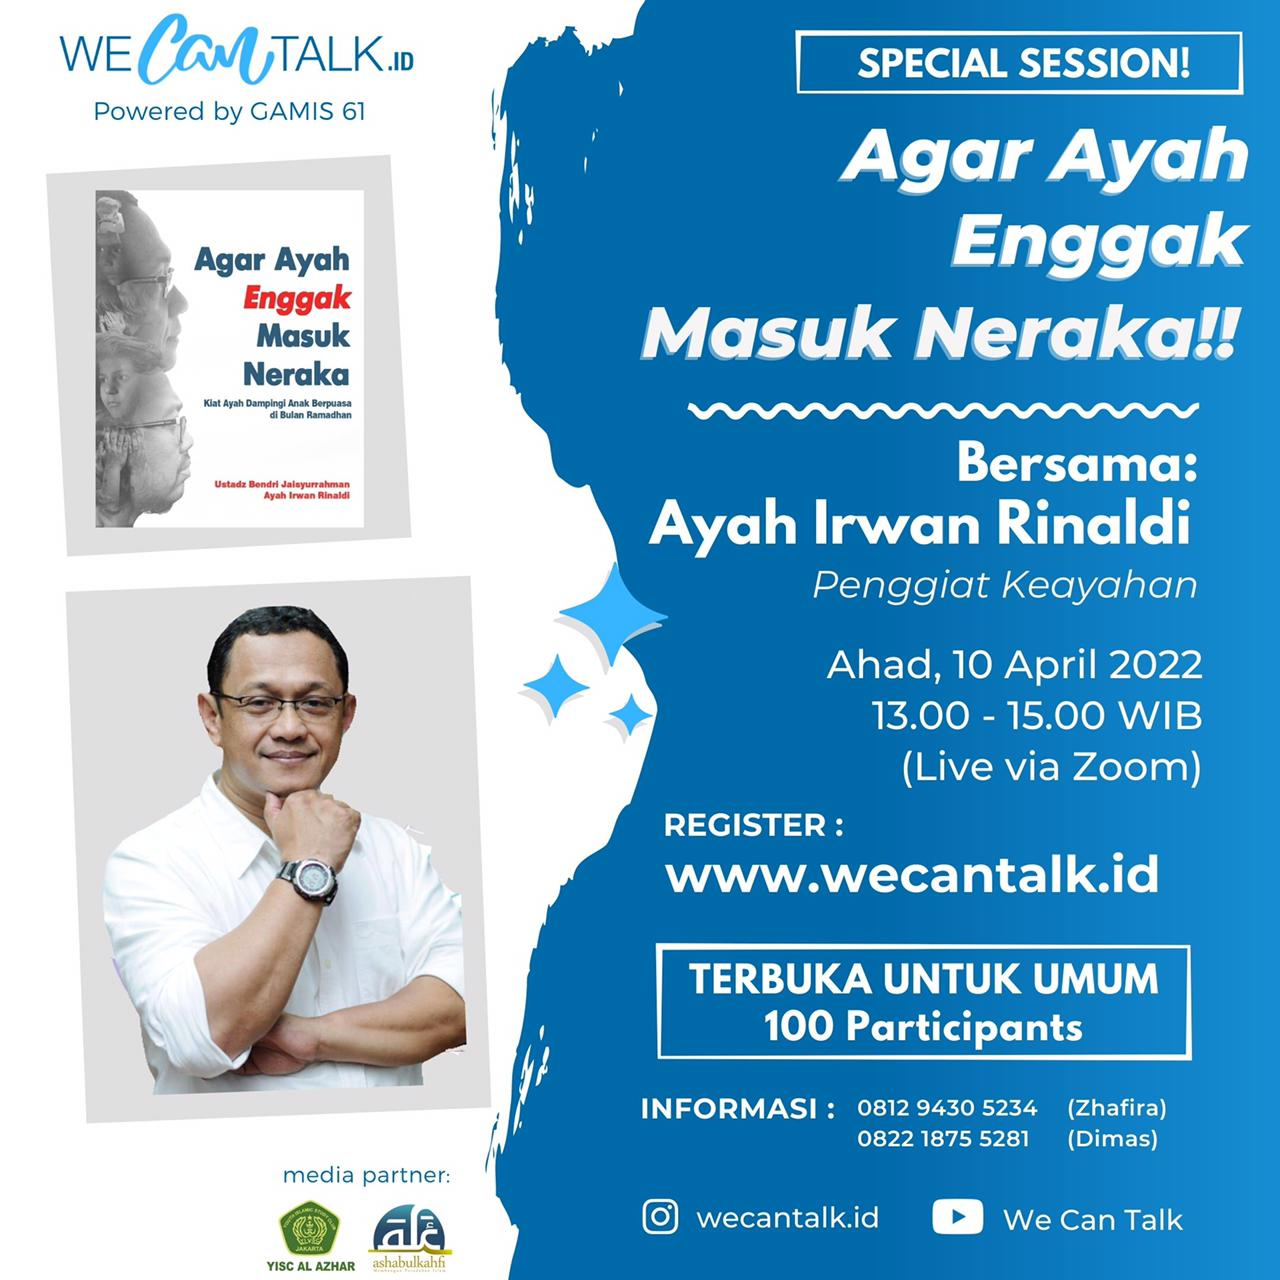
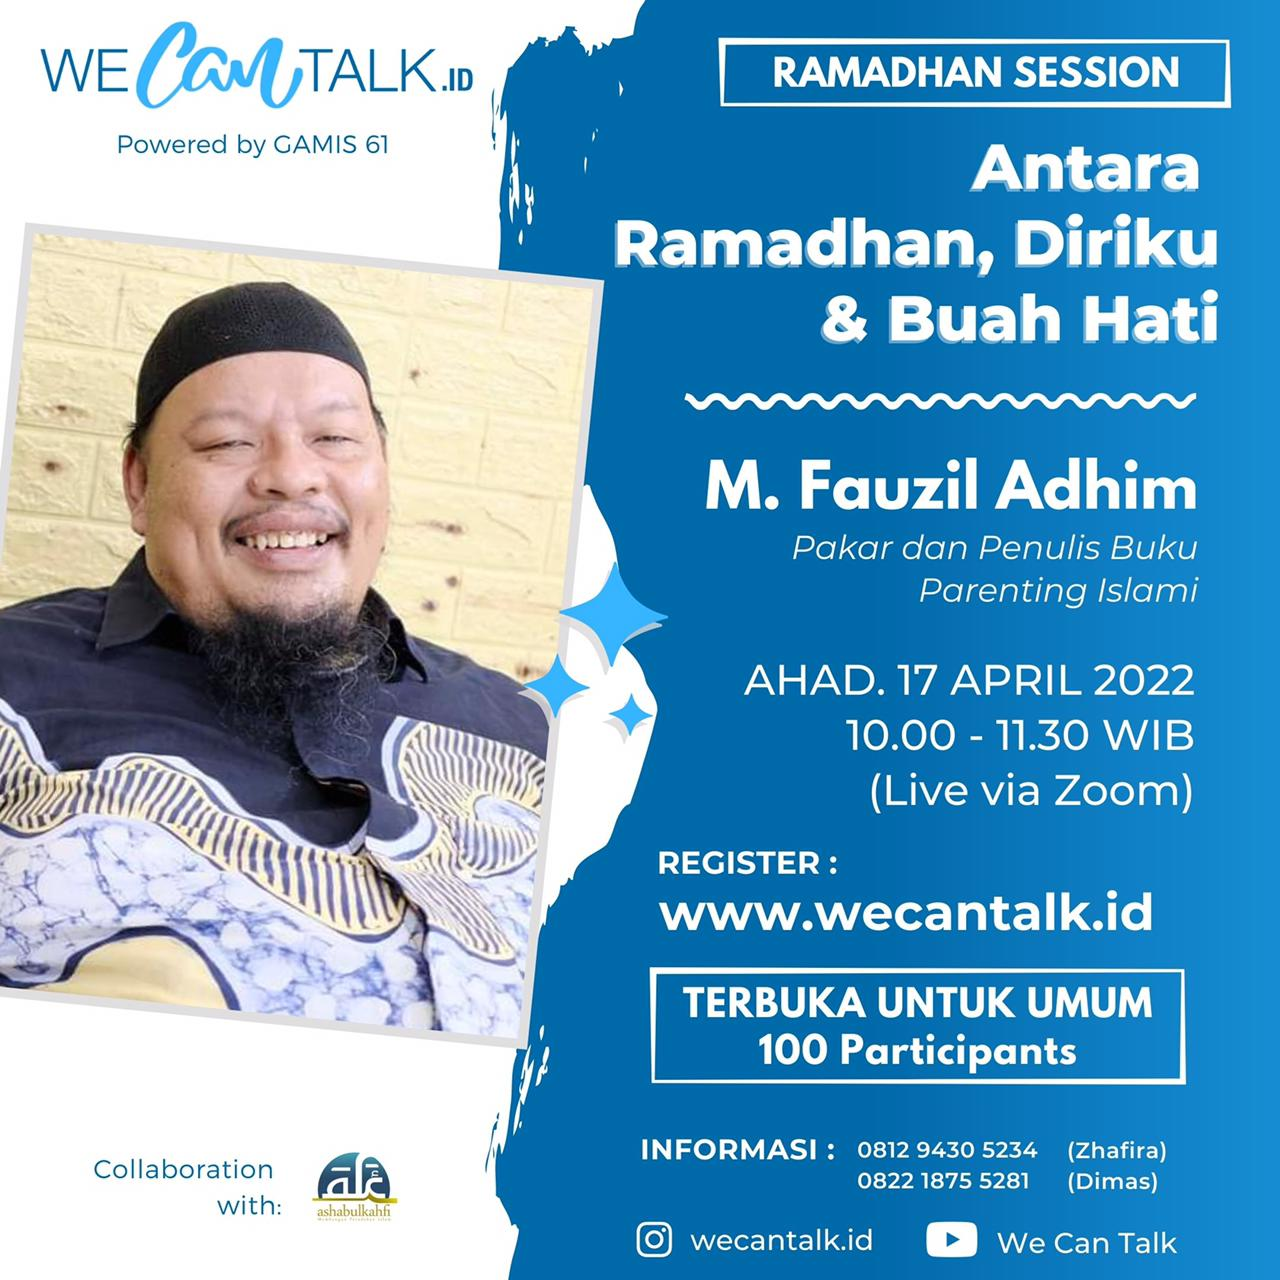
Ramadhan Session

diff --git a/index.html b/index.html
@@ -37,7 +37,7 @@
                 <button class="navbar-toggler navbar-toggler-right" type="button" data-toggle="collapse" data-target="#navbarResponsive" aria-controls="navbarResponsive" aria-expanded="false" aria-label="Toggle navigation"><span class="navbar-toggler-icon"></span></button>
                 <div class="collapse navbar-collapse" id="navbarResponsive">
                     <ul class="navbar-nav ml-auto my-2 my-lg-0">
-                        <li class="nav-item"><a class="nav-link js-scroll-trigger" href="#special">Special Session</a></li><li class="nav-item"><a class="nav-link js-scroll-trigger" href="#about">Tentang</a></li><li class="nav-item"><a class="nav-link js-scroll-trigger" href="#services">Manfaat</a></li>
+                        <li class="nav-item"><a class="nav-link js-scroll-trigger" href="#special">Ramadhan Session</a></li><li class="nav-item"><a class="nav-link js-scroll-trigger" href="#about">Tentang</a></li><li class="nav-item"><a class="nav-link js-scroll-trigger" href="#services">Manfaat</a></li>
                         <li class="nav-item"><a class="nav-link js-scroll-trigger" href="#register">Daftar</a></li>
                         <li class="nav-item"><a class="nav-link js-scroll-trigger" href="#portfolio">Kegiatan</a></li>
                         <li class="nav-item"><a class="nav-link js-scroll-trigger" href="#contact">Kontak</a></li>
@@ -62,7 +62,7 @@
         <!-- Call to action-->
         <section class="page-section" id="special">
             <div class="container text-center">
-                <h2 class="mb-4">Special Session<br>with Ayah Irwan Rinaldi<br>10 April 2022</h2>
+                <h2 class="mb-4">Ramadhan Session<br>with Ust. M Fauzil Adhim<br>17 April 2022</h2>
                 <img src="/assets/img/special.jpeg" alt="Special Session" style="align-items: center; max-width: 400px; height: 400px;"><br><br><br>
                 <a class="btn btn-primary btn-xl align-items-center" href="https://docs.google.com/forms/d/e/1FAIpQLSc1uUsNmXkiDtckWWGdU6M9UYCqPr8n5IwZuE3rDVZNQxFdFQ/viewform">Daftar Sekarang</a><br><br><br><br><br>
             </div>
